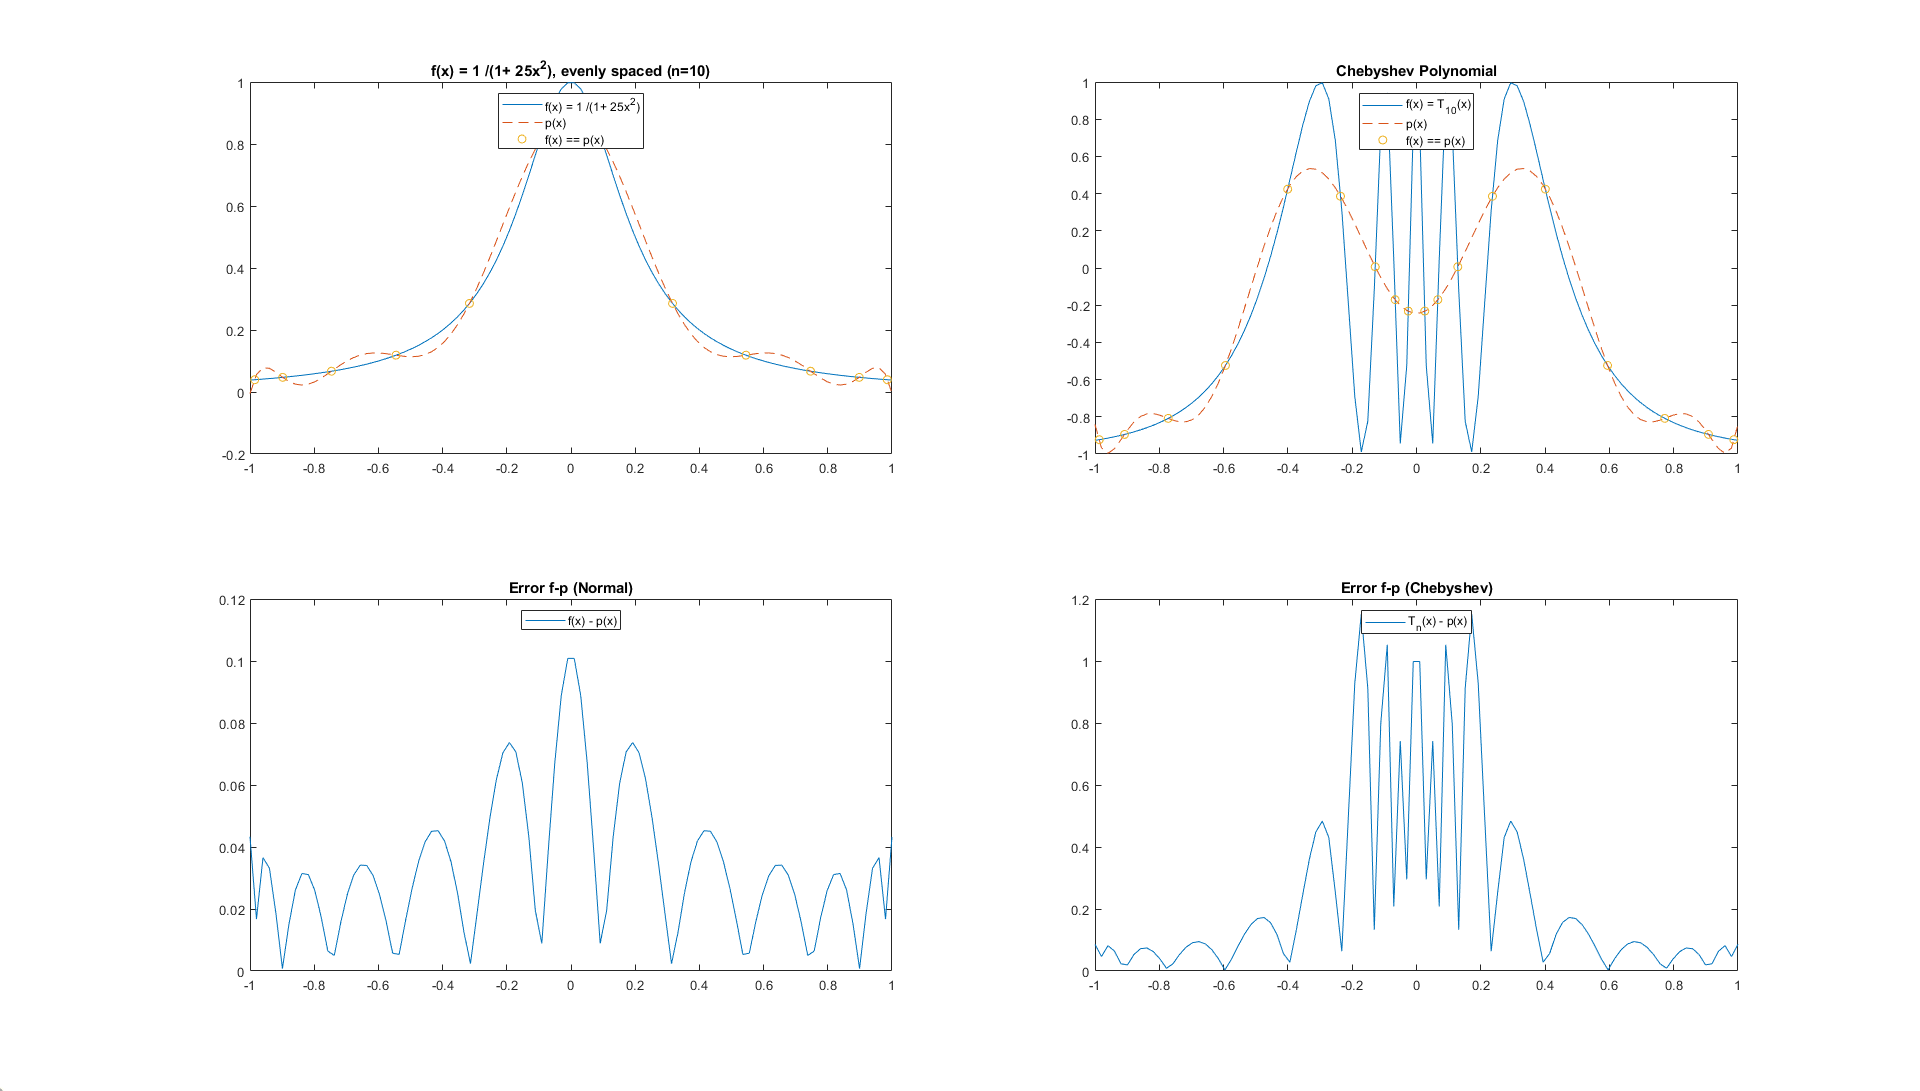
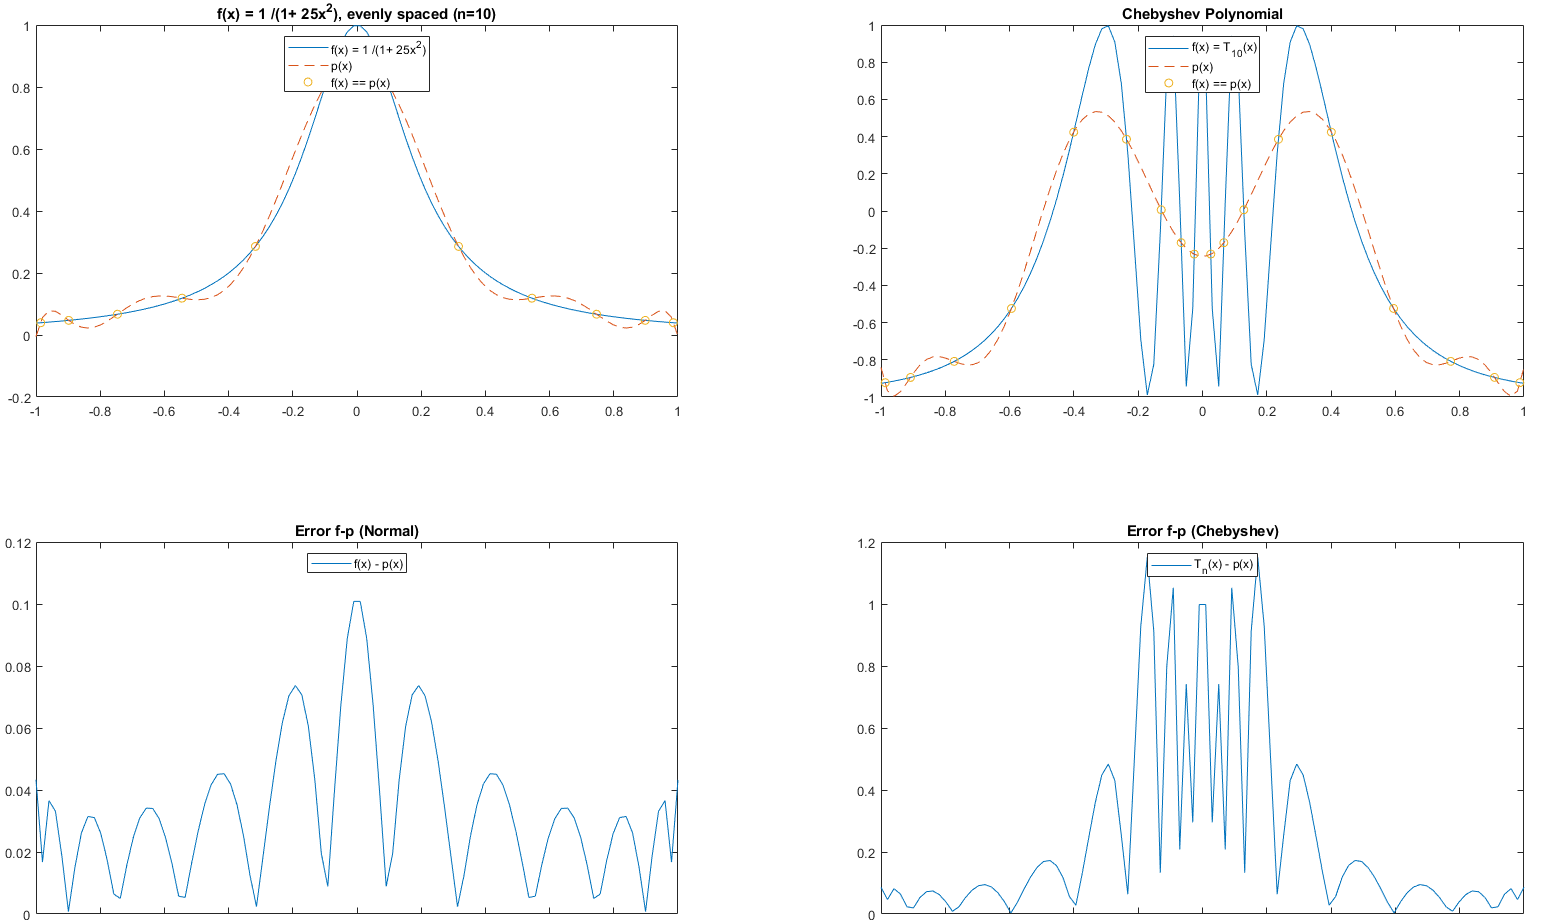
Melissa is greatgit add .git add .

diff --git a/hw3/hw3.m b/hw3/hw3.m
@@ -2,69 +2,76 @@
 % Math 351 - Numerical Analysis 
 % HW 3
 
-%% 1
-
-% choose a spacing that is fine enough that the curve appears smooth.
-x = linspace(-1,1);
+%% 1. f(x) = e^x for [-1,1]
 %n = 2;
 n = 10;
 
-% f(x) = e^x for [-1,1]
-%y = exp(x);
+% choose a spacing that is fine enough that the curve appears smooth.
+x = linspace(-1,1, n+1);                    % x for finding roots
+xplot = linspace(-1,1);                     % x for graphs
 
-% f(x) = 1 / (1+ 25x^2)
-y = 1 ./ (1 + 25 * x.^2);
+y = exp(x);                                 % f(x) = e^x 
+yplot = exp(xplot);                         % y for graphs
 
-%Chebyshev Polynomials
-c = chebyshevT(n,y);
+%% 2.  f(x) = 1 / (1+ 25x^2)
+%y = 1 ./ (1 + 25 * x.^2);
+
+% Chebyshev Polynomials
+syms s
+cy = chebyshevT(n+1,s);                 % 'sym' T_(n+1)
 
 % if Vectors x and y each have n+1 components,
-coeffs = polyfit (x,y,n); 
-cpoly  = polyfit (x,c, n);
+coeffs = polyfit (x, y, n);             % coeff for p(x)
+cChev = sym2poly(cy);                   % x^n +c
 % produces the coefficients of polynomial of degree n or less that interpolates
 % points having horizontal coordinates in vector and vertical coordiantes in
 % vector y. coeffs are listed in order of descending powers of x.
 
 % to compute the values of that polynomial:
-polyplot = polyval (coeffs, x); 
-cplot = polyval (cpoly, x);
+polyplot = polyval (coeffs, xplot);             % p(x) for graphs
 % produces values of the polynomial at horizontal coordinates
 % specified in the vector x.
 
-% compute areas where f and p meets.
-[xr,yr] = polyxpoly(x,y, x,polyplot);              % x-root
-[cxr,cyr] = polyxpoly(x,c, x,cplot);                  
+% % compute areas where f and p meets.
+% [xr,yr] = polyxpoly(x,y );              % x-root
+% [cxr,cyr] = polyxpoly(x,c, x,cplot);                  
+cx = roots(cChev)
+cy = exp(cx)
+ccoeffs = polyfit(cx, cy, n);
+cplot = polyval (ccoeffs, xplot);               % p(x) for graphs (Chev)
+
 
 % f-p
-fp = abs (y - polyplot);
-fpc = abs (c - cplot);
+fp = yplot - polyplot;
+fpc = yplot - cplot;
 
 
 %% Subplots
 % F as solid curve
 % P as dashed curve
 % F==P - Small circle 
-subplot (221); plot (x,y, '-', x, polyplot,'--',  xr, yr, 'o');
-legend ('f(x) = 1 /(1+ 25x^2)', 'p(x)', 'f(x) == p(x)', 'location','north')
-title ('f(x) = 1 /(1+ 25x^2), evenly spaced (n=10)')
+subplot (221); plot (xplot,yplot, '-', xplot, polyplot,'--',  x, y, 'o');
+legend ('f(x) = e^x', 'p(x)', 'f(x) == p(x)', 'location','north')
+title ('f(x) = e^x, evenly spaced (n=2)')
+% legend ('f(x) = 1 /(1+ 25x^2)', 'p(x)', 'f(x) == p(x)', 'location','north')
+% title ('f(x) = 1 /(1+ 25x^2), evenly spaced (n=2)')
 
 % Same thing with Chebyshev points
-subplot (222); plot (x,c, '-', x, cplot,'--',cxr,cyr,'o');
-legend ('f(x) = T_1_0(x)', 'p(x)', 'f(x) == p(x)', 'location','north')
+subplot (222); plot (xplot,yplot, '-', xplot, cplot,'--',cx,cy,'o');
+legend ('f(x) = e^x', 'p(x)', 'f(x) == p(x)', 'location','north')
 title ('Chebyshev Polynomial')
 
 % Error f-p (Normal)
-subplot (223); plot (x, fp);
+subplot (223); plot (xplot, fp, xplot, zeros(size(xplot)),'k');
 legend('f(x) - p(x)','location','north')
 title ('Error f-p (Normal)')
+% axis ([-1 1 -.1 .1])
 
 % Error f-p (Chebyshev)
-subplot (224); plot (x,fpc);
+subplot (224); plot (xplot,fpc, xplot, zeros(size(xplot)),'k');
 legend('T_n(x) - p(x)','location','north')
 title('Error f-p (Chebyshev)')
-
-%% 2
-
+% axis ([-1 1 -.1 .1])
 
 
 
